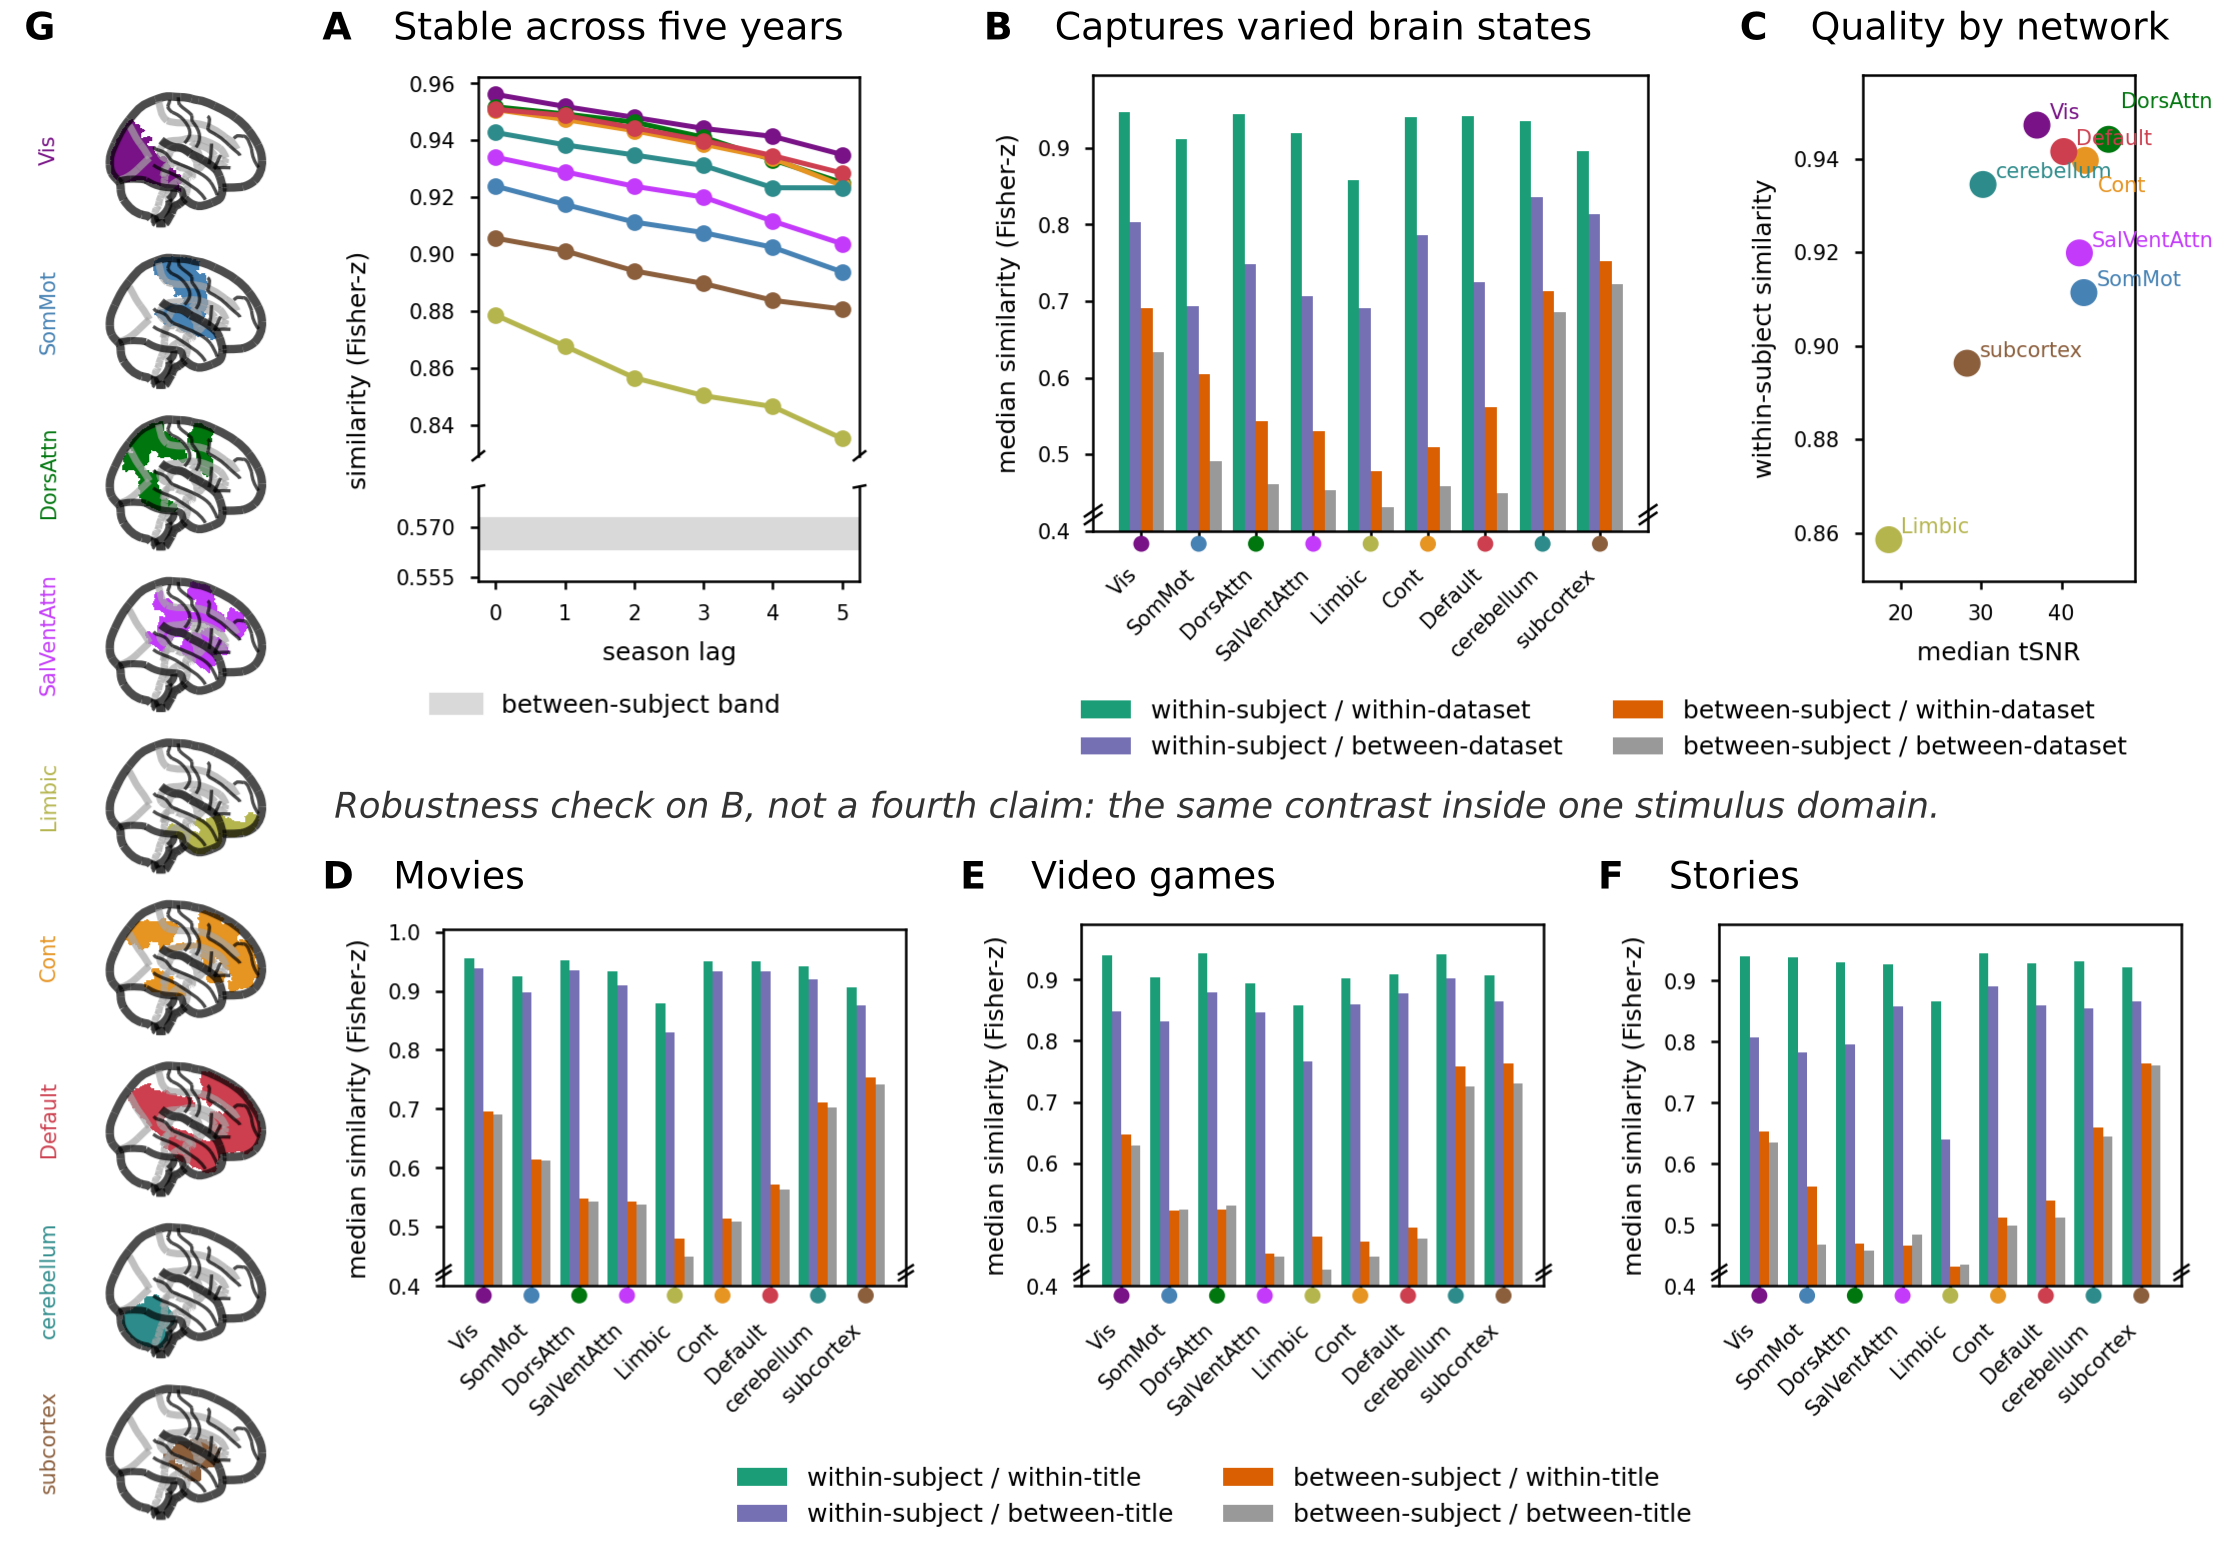
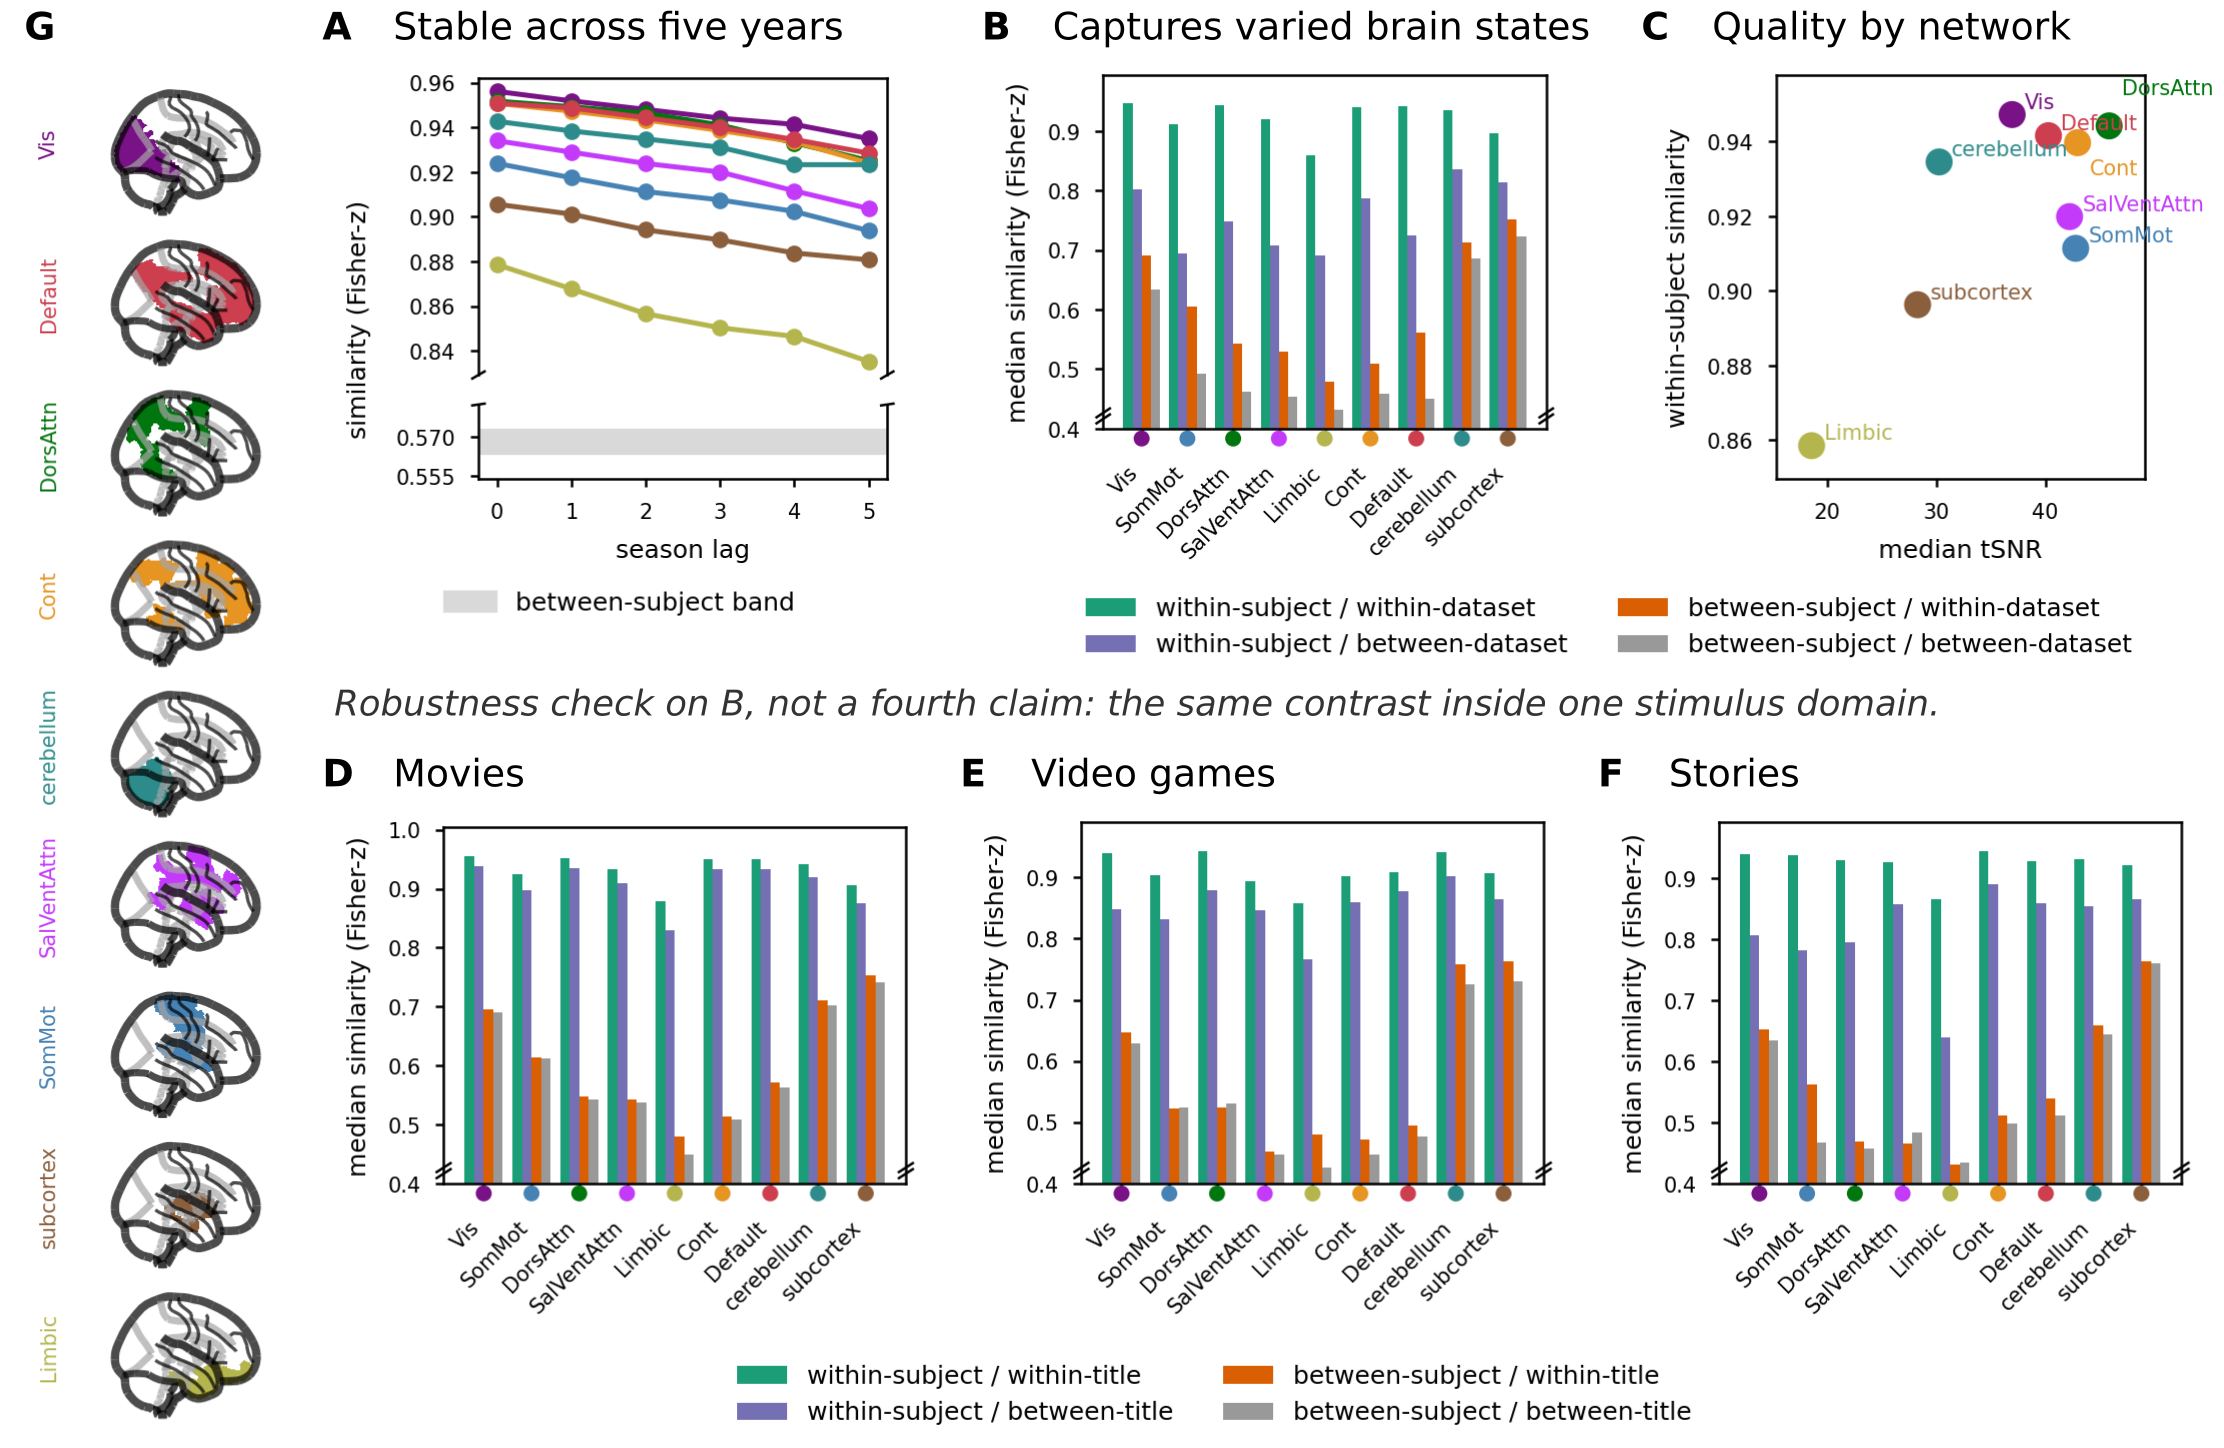
Re-render connectome figure and montage outputs

diff --git a/CLAUDE.md b/CLAUDE.md
@@ -292,10 +292,15 @@ to a plain text file beside it, to become a caption. Keep this split when adding
 `save_legend` in `figure_connectomes.ipynb` is the helper.
 
 **The montage is two rows, and type is sized once.** `connectome_figure.svg` is
-195 x 152 mm: row 1 holds the three headline panels A-C with their legend
+188.3 x 122.6 mm: row 1 holds the three headline panels A-C with their legend
 strips beneath, row 2 the three domain panels D-F sharing a single legend (the
 three `domain_*_legend.png` are identical, so only `domain_movies_legend.png`
-is placed). Panel letters, panel titles, and the strap that says row 2 is a
+is placed). **Row 1's three panels are one shape**, 48.33 x 43.33 mm on a 7.5
+mm gap — panel B's original 58:52 proportions, applied to all three at the
+width that fits the row, at the user's request. Keep them equal when
+re-laying the montage: A's broken axis, B's bars and C's scatter are read
+against each other, and three different frames make that comparison harder
+than it needs to be. Panel letters, panel titles, and the strap that says row 2 is a
 robustness check on B rather than a fourth claim are all typeset in the SVG,
 never drawn onto a panel. Because a placed panel is only ~2 in wide,
 matplotlib's 10 pt defaults overflow it — the y-axis label alone came out
@@ -334,6 +339,17 @@ their network colour, and the bar panels carry a coloured bubble at each x
 tick. The masks come from the MNI group atlas via `analysis/atlas_maps.py`
 (see the `anat/atlases` exception above); if that content is missing the
 notebook prints a warning and omits the panel rather than failing.
+
+The tiles are stacked in **decreasing panel-A stability** — the mean over
+season lags of the gated within-subject median similarity, descending (Vis,
+Default, DorsAttn, Cont, cerebellum, SalVentAttn, SomMot, subcortex, Limbic as
+of 2026-08-19) — so the key doubles as a ranking of which networks carry the
+most stable connectomes. `stability_ordered_networks()` in
+`figure_connectomes.ipynb` derives it from `longitudinal_lag.tsv`, falling back
+to `NETWORK_ORDER` if that table is empty and sorting any network friends does
+not cover to the end. **Only panel G is reordered.** Every other panel keeps
+`NETWORK_ORDER`, whose fixed anatomical grouping is what lets a reader compare
+the same x position across panels B, D, E and F.
 
 `run-figure-layout` is a deliberate exception to the existence-based caching described above: it always re-runs, because it is cheap and a box resized in Inkscape must take effect on the very next `invoke run`, not only after a `clean`.
 

diff --git a/output_data/CONTENT.md b/output_data/CONTENT.md
@@ -180,7 +180,10 @@ Once the pipeline is run, this folder will contain the following.
 - `figures/figure_connectomes/network_maps.png` — the montage's network key:
   nine sagittal glass brains, one per network, each filled with its
   `NETWORK_COLORS` entry and named beside it, spanning the full page height
-  down the left edge. Every other panel inherits those colours (panel A's
+  down the left edge, stacked in decreasing panel-A stability (mean gated
+  within-subject median similarity over season lags) so the key doubles as a
+  ranking — only this panel is reordered; the rest keep `NETWORK_ORDER`.
+  Every other panel inherits those colours (panel A's
   lines, panel C's points and labels, the bar panels' x-tick bubbles), which is
   why none of them repeats a nine-network legend. Drawn from the MNI group
   atlas via `analysis/atlas_maps.py` — display only, and the sole place this
